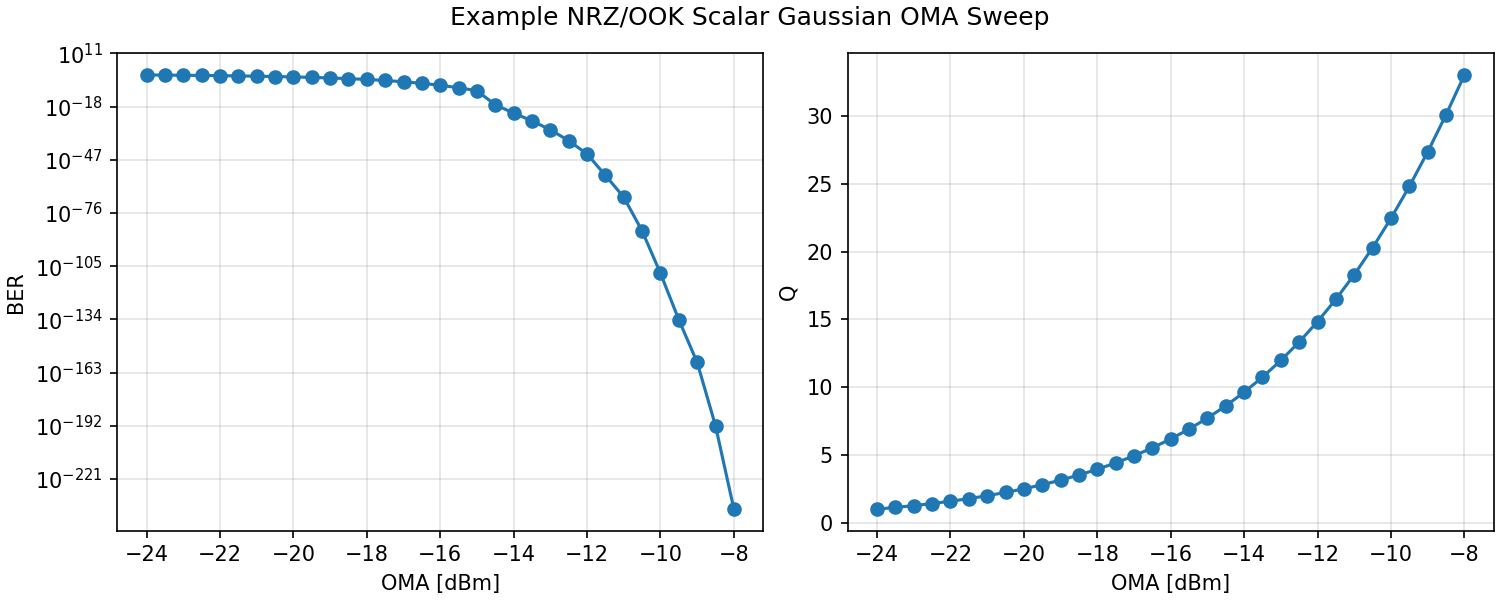
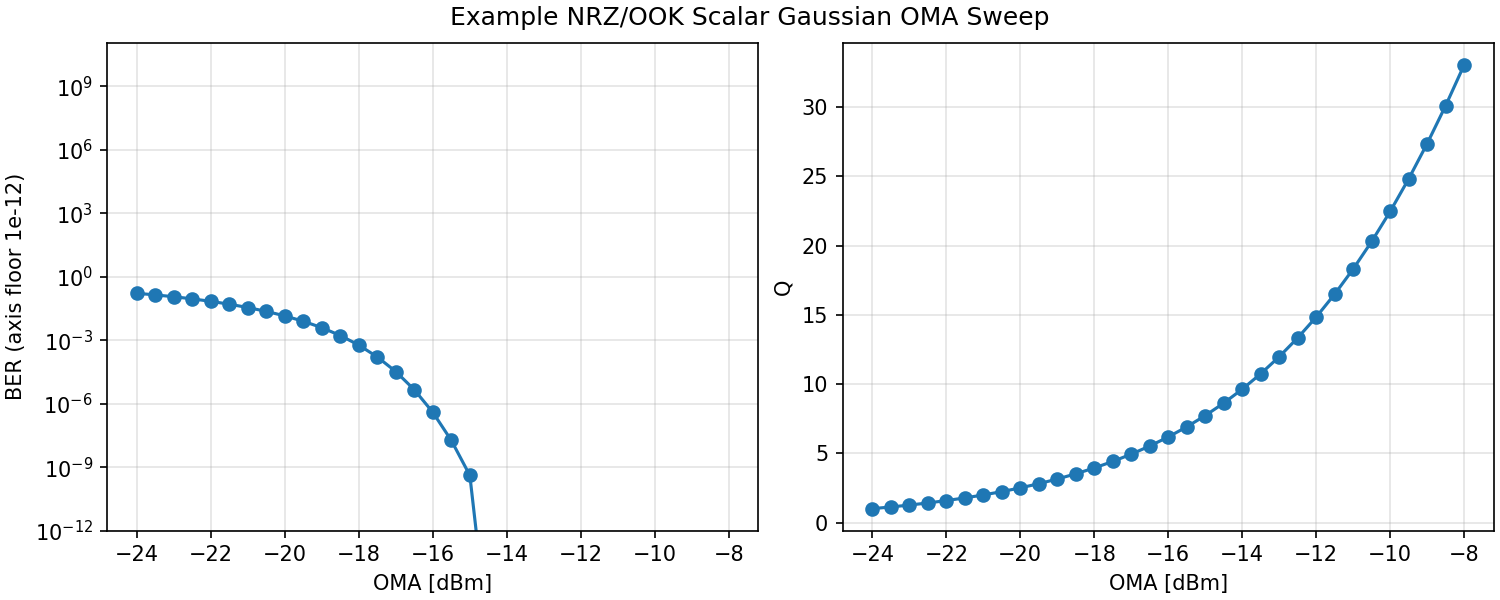
check

diff --git a/src/oma_ber/plotting.py b/src/oma_ber/plotting.py
@@ -3,6 +3,7 @@
 import numpy as np
 from matplotlib import pyplot as plt
 from matplotlib.axes import Axes
+from matplotlib.ticker import LogFormatterSciNotation
 
 
 def _require_keys(sweep_results: list[dict], required_keys: set[str]) -> None:
@@ -25,7 +26,12 @@ def plot_oma_sweep(
     sweep_results: list[dict],
     ax: Axes | None = None,
 ) -> Axes:
-    """Plot BER versus OMA in dBm for sweep result dictionaries."""
+    """Plot BER versus OMA in dBm for sweep result dictionaries.
+
+    The BER axis uses a display-only lower limit of 1e-12 so very small BER
+    values do not make the practical receiver region unreadable. Data values
+    are not clipped or modified.
+    """
     _require_keys(sweep_results, {"oma_dbm", "ber"})
     oma_dbm_values = np.array([result["oma_dbm"] for result in sweep_results], dtype=float)
     ber_values = np.array([result["ber"] for result in sweep_results], dtype=float)
@@ -37,8 +43,10 @@ def plot_oma_sweep(
     ax = _get_axes(ax)
     ax.plot(oma_dbm_values, ber_values, marker="o")
     ax.set_yscale("log")
+    ax.yaxis.set_major_formatter(LogFormatterSciNotation())
+    ax.set_ylim(bottom=1e-12)
     ax.set_xlabel("OMA [dBm]")
-    ax.set_ylabel("BER")
+    ax.set_ylabel("BER (axis floor 1e-12)")
     ax.grid(True, which="both", alpha=0.35)
     return ax
 

diff --git a/tests/test_plotting.py b/tests/test_plotting.py
@@ -28,8 +28,10 @@ def test_plot_oma_sweep_returns_axes_and_labels_units() -> None:
     assert isinstance(ax, Axes)
     assert "OMA" in ax.get_xlabel()
     assert "dBm" in ax.get_xlabel()
-    assert ax.get_ylabel() == "BER"
+    assert "BER" in ax.get_ylabel()
+    assert "1e-12" in ax.get_ylabel()
     assert ax.get_yscale() == "log"
+    assert ax.get_ylim()[0] == pytest.approx(1e-12)
     plt.close(ax.figure)
 
 
